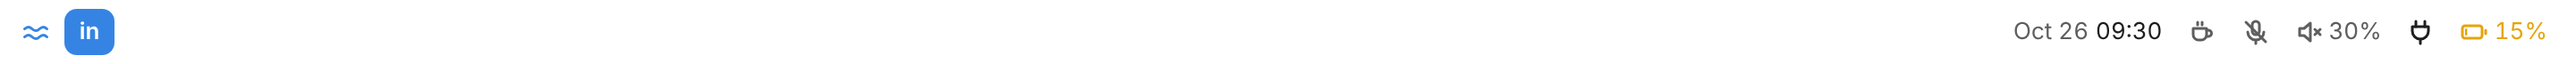
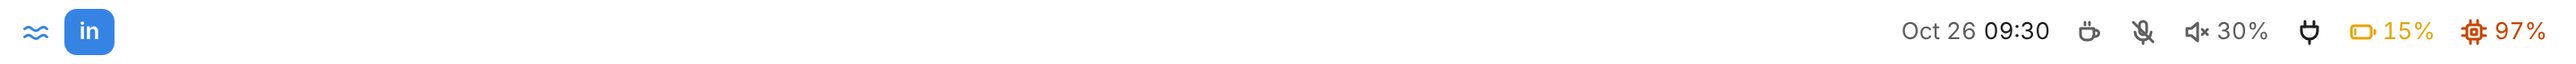
Add a system monitor showing CPU % to the bar
As on tide, the bar shows the CPU's % after the battery, in the warning
color when the Mac is hot or memory is nearly full and the danger color
while it's throttling, with a tip saying why. macOS's thermal state stands
in for tide's temperature and throttle count. A click opens Activity
Monitor.

Claude-Session: https://claude.ai/code/session_016zevakLNb2sAiBanW1V4dt

Changed region(s): [[0.7188, 0.3056, 1.0, 0.6944]]

diff --git a/hammerspoon/tilemo/dashboard/bar.js b/hammerspoon/tilemo/dashboard/bar.js
@@ -3,7 +3,7 @@
 // clocks and status icons right. tilemo fills it with tilemo.update(state),
 // says where the pointer is with tilemo.pointer(x, y), and hears back through the "tilemo" message handler: { uuid, show: n },
 // { uuid, step: 1 or -1 }, { uuid, focus: window id } from an attention icon,
-// { open: "battery" | "wifi" | "network" },
+// { open: "battery" | "wifi" | "network" | "volume" | "bluetooth" | "sysmon" },
 // { toggle: "mic" | "volume" | "awake" | "presenter" | "source" },
 // { volume: 1 or -1 },
 // { dashboard: true }, { switcher: true } from the logo, { maximize: true }, { tip: { text, x } } while
@@ -155,6 +155,9 @@ const PATHS = {
   dot: `<path d="M8 12.8v.01"/>`,
   wired: `<path d="M5.5 2v3M10.5 2v3"/><path d="M3.5 5h9v2.5a4.5 4.5 0 0 1-9 0z"/><path d="M8 12v2.5"/>`,
   bolt: `<path d="M5.5 2.5l-3 6h3l-1 5 4-7h-3z"/>`,
+  // A processor, as tide's cpu-symbolic: a chip with pins on each side.
+  cpu: `<rect x="4" y="4" width="8" height="8" rx="1.5"/><rect x="6.5" y="6.5" width="3" height="3" rx="0.5"/>` +
+    `<path d="M6 1.5v2M10 1.5v2M6 12.5v2M10 12.5v2M1.5 6h2M1.5 10h2M12.5 6h2M12.5 10h2"/>`,
 };
 
 const VOLUME = { mute: 0, low: 1, mid: 2, high: 3 };
@@ -282,6 +285,14 @@ function renderIcons(box, icons) {
   }
   box.append(network(icons));
   if (icons.battery) box.append(battery(icons.battery));
+  // The system monitor: CPU %, colored when hot, throttling or short of
+  // memory; a click opens Activity Monitor.
+  if (icons.sysmon) {
+    const s = icons.sysmon;
+    const b = icon("sysmon", s.tip || "CPU", { open: "sysmon" }, svg(PATHS.cpu), s.tone || "normal");
+    b.append(el("span", "text", s.text));
+    box.append(b);
+  }
 }
 
 // Sets each item's reach (hitInsets) as --reach-* for its ::before, which

diff --git a/hammerspoon/tilemo/dashboard/bar.html b/hammerspoon/tilemo/dashboard/bar.html
@@ -59,6 +59,18 @@ body {
     --chip-urgent-ring: #f6d32d;
   }
 }
+/* The system monitor's warning and danger colors, tide's palette's, after the
+   chips', which `make check-tide` reads first. */
+:root {
+  --warn: #c64600;
+  --danger: #c01c28;
+}
+@media (prefers-color-scheme: dark) {
+  :root {
+    --warn: #ffa348;
+    --danger: #ff7b63;
+  }
+}
 /* A chip's window icons follow its number. */
 nav button {
   display: flex;
@@ -262,13 +274,21 @@ nav button .app.none.win:hover {
   color: var(--urgent);
 }
 #icons .battery .text,
-#icons .volume .text {
+#icons .volume .text,
+#icons .sysmon .text {
   font-variant-numeric: tabular-nums;
 }
 /* Held as wide as two digits and a %, as tide's, so the icons beside it
    don't move as the level changes, except at 100%. */
-#icons .volume .text {
+#icons .volume .text,
+#icons .sysmon .text {
   min-width: 2.2em;
+}
+#icons .sysmon[data-state="warn"] {
+  color: var(--warn);
+}
+#icons .sysmon[data-state="danger"] {
+  color: var(--danger);
 }
 </style>
 </head>

diff --git a/SPEC.md b/SPEC.md
@@ -1619,6 +1619,25 @@ tilemo registers each with `RegisterEventHotKey`, which needs no permission
   - battery: `hs.battery`, with its percentage and a charging mark, and on
     hover how long until full or empty when macOS knows. None on a Mac
     without one.
+  - system monitor: the CPU's %, as tide's (tide §7.4), held as wide as
+    two digits. It's the share busy since the last reading, from
+    `hs.host.cpuUsageTicks()`, so the first reading shows "–".
+    - **Colors:** the warning color when the Mac is hot or memory is 90%
+      full, and the danger color while it's throttling, both from tide's
+      palette. Its tip says why: "CPU 23%, hot", "throttling", "memory
+      nearly full".
+    - macOS gives no temperature or throttle count to an app, so
+      `hs.host.thermalState()` stands in: "serious" (high) is hot, and
+      "critical" (performance cut until it cools) is throttling. "fair"
+      (slightly raised) is normal, since it comes with any steady load
+      *(a guess to confirm on a Mac under load)*.
+    - Memory is wired, active and compressed pages from `hs.host.vmStat()`
+      over its `memSize`, near Activity Monitor's "Memory Used" *(an
+      approximation)*.
+    - A click opens Activity Monitor. tide's opens a popover with the
+      busiest processes; Activity Monitor already lists them on a Mac.
+    - Read on the 5 s icon poll, where tide reads every 3 s. Each reading
+      is a few kernel counters, with no process started.
   - The battery, network, Bluetooth and headphones items open their System Settings panes, named
     by URL (`x-apple.systempreferences:…`) *(unverified on macOS 26)*.
 - **Not drawn:** Focus (Do Not Disturb). Hammerspoon has no module for it
